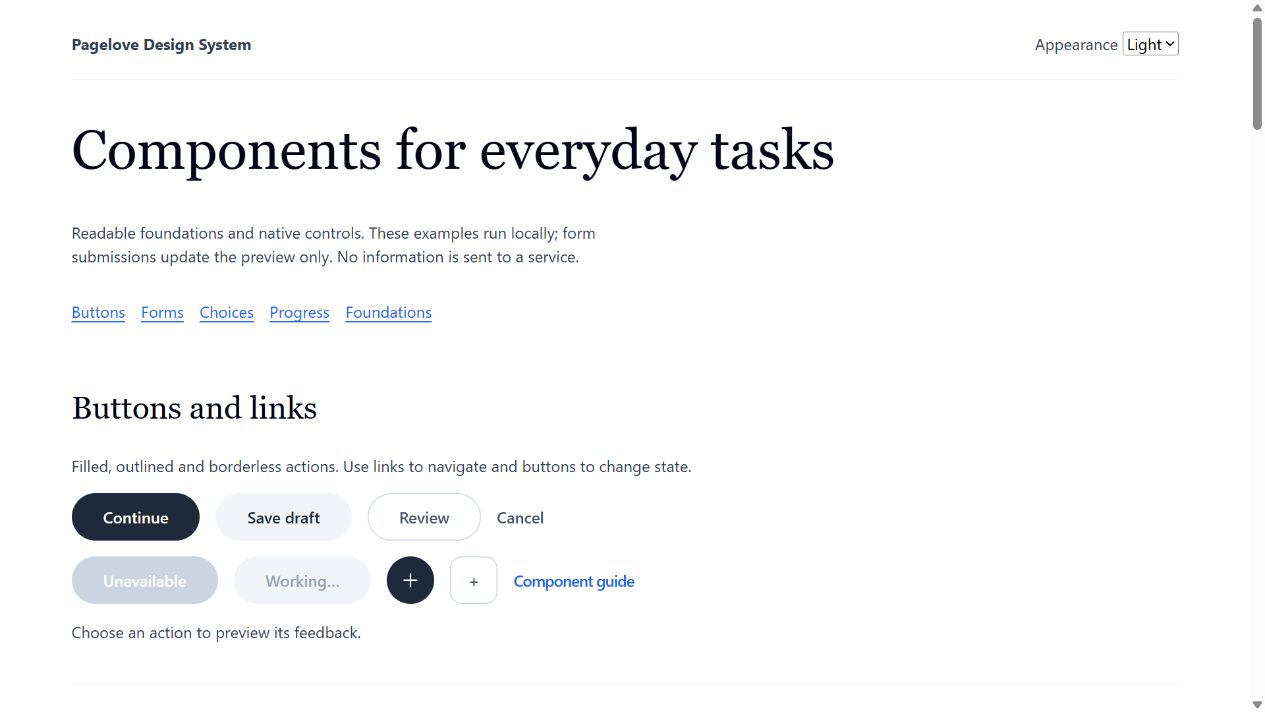
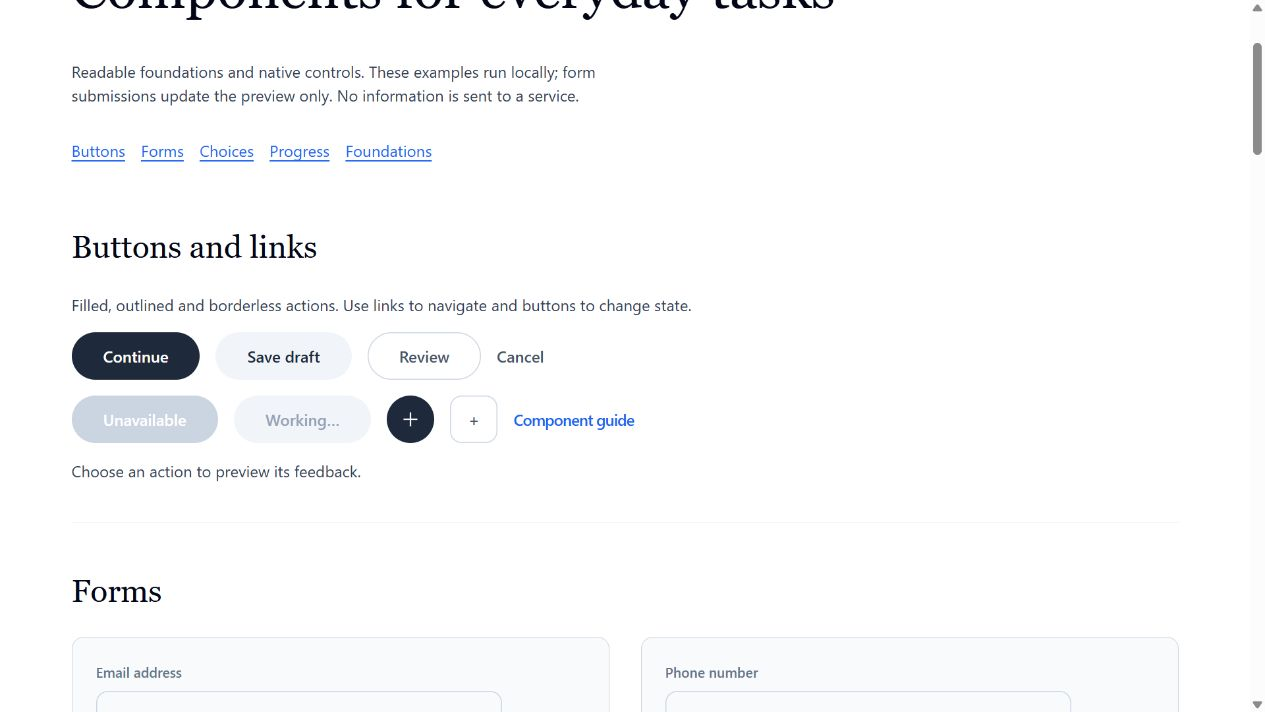
Record verified public release and preview checks

diff --git a/audit/CHANGELOG.md b/audit/CHANGELOG.md
@@ -20,3 +20,14 @@
 - Verification: Build/check pass; XML and SVG parse; JavaScript syntax checks pass. Browser verified desktop and 390/320px reflow, local task feedback, native validation, selections, password visibility and keyboard activation. Evidence and limits: reference/VERIFICATION.md and audit/automated-checks.json.
 - Corrections: Fixed preview-root relative-script routing and reran interactions at the canonical path. Used the observed combobox role after one unsuccessful label lookup. DS-001's initial timestamp was approximate; this entry records actual execution time rather than claiming an exact earlier event time.
 - Publication: Pending initial commit and remote verification.
+
+## DS-003 — Publication verified
+
+- UTC: 2026-11-04T23:19:34.2528197Z
+- Actor: Codex
+- Plan reference: DS-001 and DS-002.
+- Change: Published the initial 69-file edition to the requested public repository; recorded the publication receipt and refreshed release evidence/hashes.
+- Why: Complete the authorized public design-system delivery with a reproducible handoff.
+- Affected: audit/CHANGELOG.md, audit/automated-checks.json, audit/files.sha256 and the refreshed overview screenshot; reference/VERIFICATION.md entry-point confirmation.
+- Verification: GitHub returned public visibility and main commit df44cbd47f284445e9c914bc7bb4a4e9847216d8, matching the clean local checkout. Restarted the corrected preview server; browser navigation from the root redirected to the catalog and the primary action updated its visible status. Final static checks and file hashes are refreshed below this publication record.
+- Scope limits: Native/framework compilation and live Stitch/Figma imports remain unexecuted as documented; no private source files were uploaded.

diff --git a/reference/VERIFICATION.md b/reference/VERIFICATION.md
@@ -16,7 +16,7 @@ The initial edition was checked on November 4, 2026. Machine-readable static res
 
 ## Corrections during verification
 
-The preview server originally served the catalog at `/` without redirecting, causing its relative script URL to resolve incorrectly. The server now redirects to `/examples/catalog.html`. Interaction checks were rerun at that canonical path. One browser lookup by label did not resolve the appearance selector; the observed combobox role was used successfully.
+The preview server originally served the catalog at `/` without redirecting, causing its relative script URL to resolve incorrectly. The server now redirects to `/examples/catalog.html`. Interaction checks were rerun at that canonical path. After server restart, root navigation was also verified to redirect and execute the interaction successfully. One browser lookup by label did not resolve the appearance selector; the observed combobox role was used successfully.
 
 ## Limits
 
